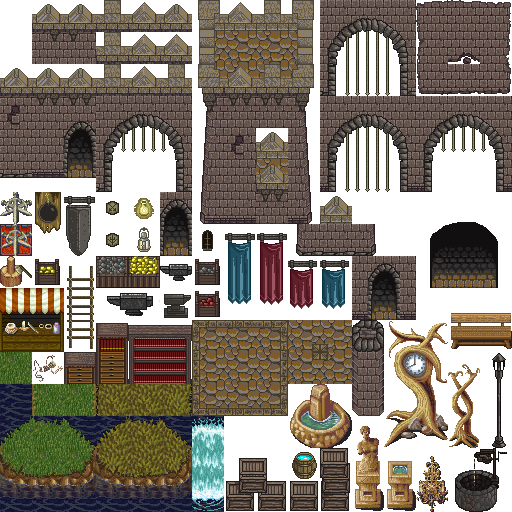
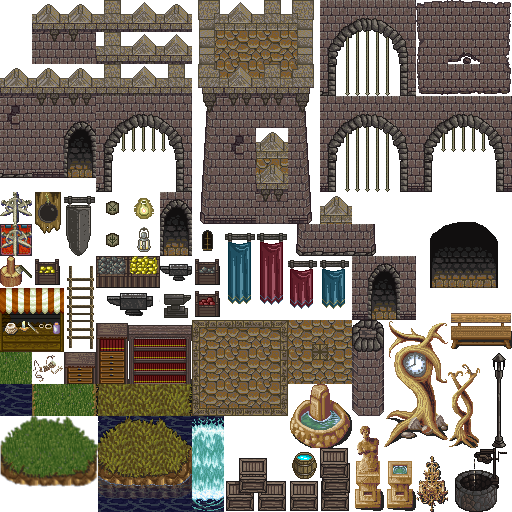
Ale
cambios level 1

Changed region(s): [[0.0, 0.8125, 0.2188, 1.0]]

diff --git a/src/scenes/Level1.js b/src/scenes/Level1.js
@@ -21,11 +21,12 @@ class Level1 extends BasicScene {
         //HealthText
         this.createHealthText();
         //Tilemap
-        this.paintLayerAndCreateCollision(GameConstants.Tiles.CAVE_STONE);
+        this.paintLayerAndCreateCollision(GameConstants.Tiles.CASTLE, GameConstants.Layers.WORLD, true);
 
         //PRIVATE SCENE ELEMENTS
         //Creacion de elementos decorativos
-        this.paintLayerAndCreateCollision(GameConstants.Tiles.CAVE_STONE, GameConstants.Layers.LANDSCAPE, false);
+        this.paintLayerAndCreateCollision(GameConstants.Tiles.CASTLE, GameConstants.Layers.LANDSCAPE, false);
+        //this.paintLayerAndCreateCollision(GameConstants.Tiles.CASTLE, GameConstants.Layers.WORLD, true);
         //Creacion de objetos invisibles que dañaran a daniela
         this.findTransparentObjects(GameConstants.Layers.SPIKES, GameConstants.Sprites.Spike.KEY, true);
 

diff --git a/src/Bootloader.js b/src/Bootloader.js
@@ -87,7 +87,7 @@ class Bootloader extends Phaser.Scene {
         //Menu
         this.load.image('bg_Menu', 'img/backgrounds/dibujoPortadaEscaneado.png');
         //Level1
-        this.load.image('bg_Level1', 'img/backgrounds/2560x1440-snapSat1800.jpg');
+        this.load.image('bg_Level1', 'img/backgrounds/2560x1440-snapSat1800.png');
         //Se cambiara por un dibujo de los niños de una cueva
         //Ahora mismo esta de ejemplo
         //http://kidskunst.info/46/05451-2d-game-background-cave.htm
